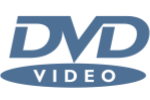
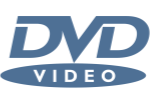
I DID IT

diff --git a/BombDetectTesting/src/DVDLogo.cs b/BombDetectTesting/src/DVDLogo.cs
@@ -18,19 +18,18 @@ public class DVDLogo : Sprite
     private SDL_Color _color;
 
     // a constructor
-    public DVDLogo() : base("DVD Logo", new(100, 100), "resources/dvd.png")
+    public DVDLogo() : base("DVD Logo", new(50, 50), "resources/dvd.png")
     {
         // random position and velocity
         _rng = new Random();
         Position = new(
-            _rng.Next(1, (int)Window.OriginalResolution.X),
-            _rng.Next(1, (int)Window.OriginalResolution.Y)
+            _rng.Next(50, 500),
+            _rng.Next(50, 500)
         );
-        _velocity = new(
-            _rng.Next(-10, 10),
-            _rng.Next(-10, 10)
-        );
-        
+        _velocity = new(2, -2);
+
+        Console.WriteLine(_velocity);
+
         // random color
         _color = RandomColor();
     }
@@ -49,9 +48,6 @@ public class DVDLogo : Sprite
     // render with dvd logic
     public override void OnRender()
     {
-        // base so it actually renders
-        base.OnRender();
-        
         Position += _velocity; // remember order of operations, don't get confused
         Texture.Offset = Position;
 
@@ -74,5 +70,8 @@ public class DVDLogo : Sprite
             _color = RandomColor();
             SDL_SetTextureColorMod(Texture.TexturePointer, _color.r, _color.g, _color.b);
         }
+
+        // base so it actually renders
+        base.OnRender();
     }
 }

diff --git a/src/Objects/Texture.cs b/src/Objects/Texture.cs
@@ -45,8 +45,7 @@ public class Texture : Thing
         );
     }
 
-    // override update to update texture offsets with the vector2s we have
-    public override void OnUpdate(float deltaTime)
+    public void Draw()
     {
         if (Parent is Sprite sprite)
         {
@@ -55,18 +54,10 @@ public class Texture : Thing
 
         _offRect.x = (int)Offset.X;
         _offRect.y = (int)Offset.Y;
-        _offRect.w = _cropRect.w;
-        _offRect.h = _cropRect.h;
-
-        Size = new(
-            (float)_cropRect.w,
-            (float)_cropRect.h
-        );
-    }
-
-    public void Draw()
-    {
-        SDL_RenderCopy(Renderer.GetRenderer(), TexturePointer, ref _cropRect, ref _offRect);
+        _offRect.w = (int)Size.X;
+        _offRect.h = (int)Size.Y;
+        
+        SDL_RenderCopy(Renderer.GetRenderer(), TexturePointer, IntPtr.Zero, ref _offRect);
     }
 
     // add a way to destroy the texture

diff --git a/BombDetectTesting/README.md b/BombDetectTesting/README.md
@@ -1,0 +1,2 @@
+# BombDetectTesting
+this may or may not be a DVD screensaver
